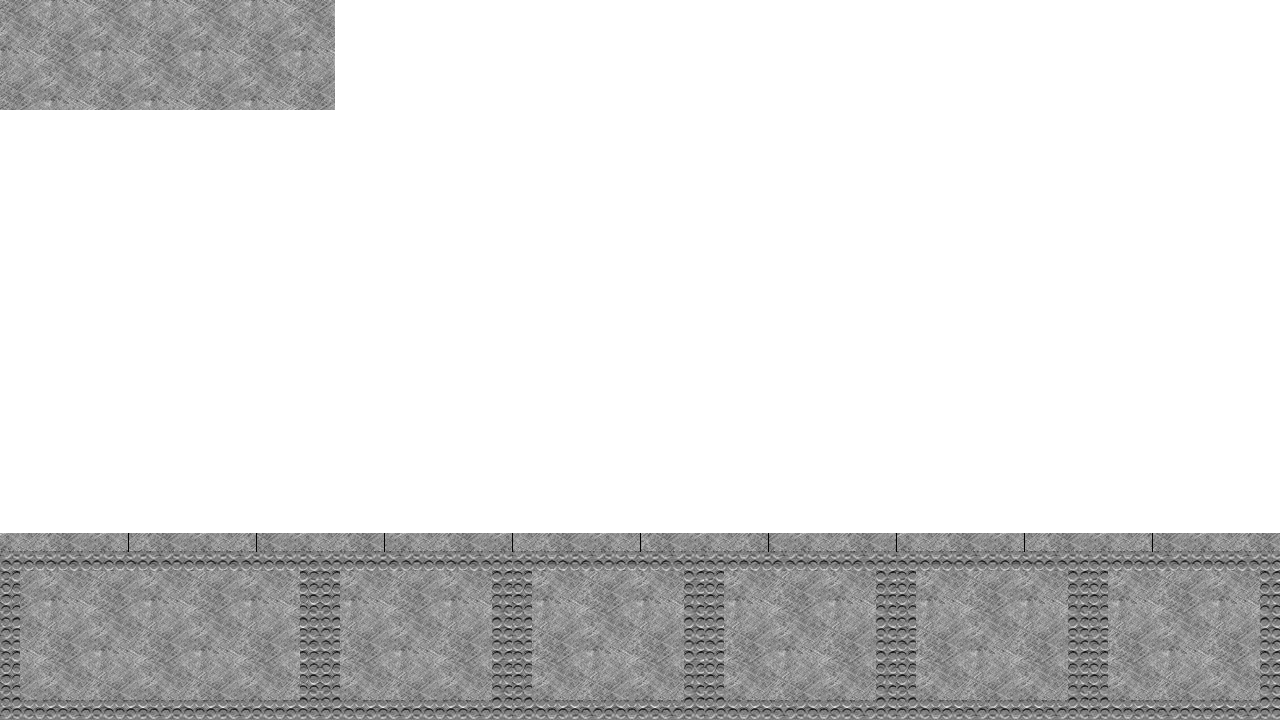
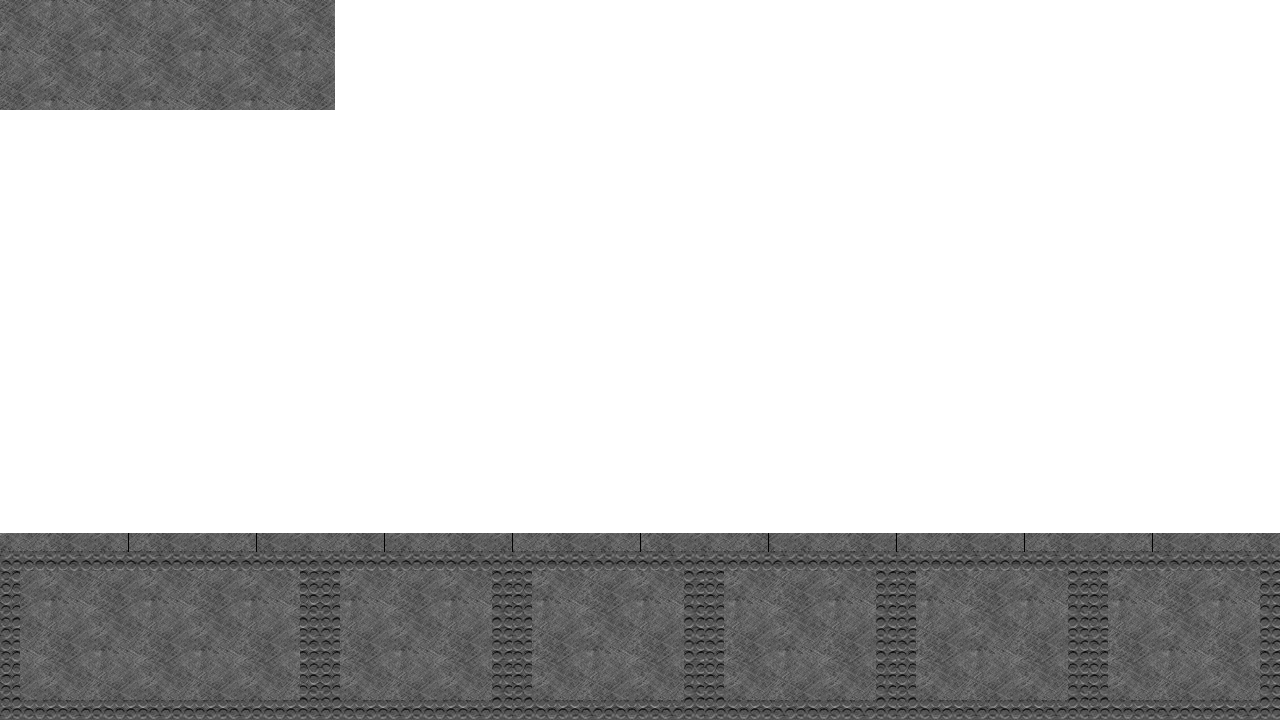
Visual changes
Hud is darker to reflect white text, menu screens are darker for the
same reason, and main needed a box size change for the background plane.

Changed region(s): [[0.0, 0.7333, 1.0, 1.0], [0.0, 0.0, 0.2812, 0.1528]]

diff --git a/Juggernaut/src/Juggernaut/Main.java b/Juggernaut/src/Juggernaut/Main.java
@@ -181,7 +181,7 @@ public class Main extends SimpleApplication implements PhysicsCollisionListener 
         Material backgroundMat = new Material(assetManager, "Common/MatDefs/Misc/Unshaded.j3md");
         backgroundMat.setTexture("ColorMap", assetManager.loadTexture("Models/citydestroyed.jpg"));
 //        backgroundMat.setTexture("ColorMap", assetManager.loadTexture("Models/Destroyedcity_2.jpg"));
-        backgroundBox = new Box(new Vector3f(0, 0, 0), 44, 20, 0.5f);
+        backgroundBox = new Box(new Vector3f(0, 0, 0), 45, 20, 0.5f);
         background = new Geometry("Background", backgroundBox);
         background.setMaterial(backgroundMat);
         rootNode.attachChild(background);
